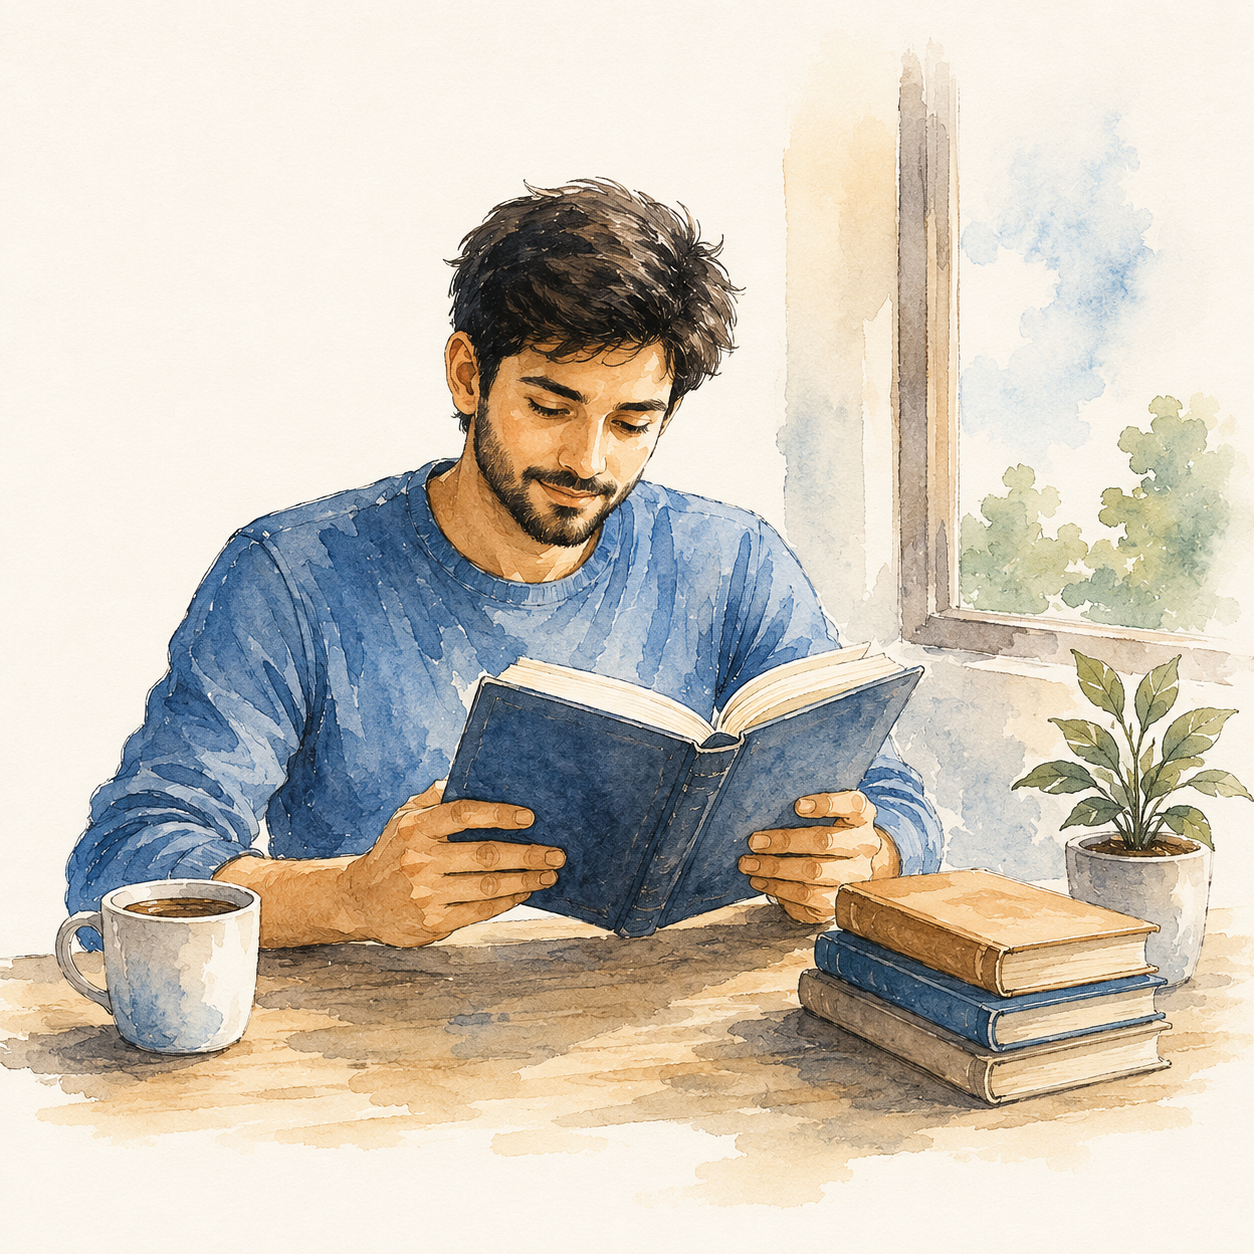
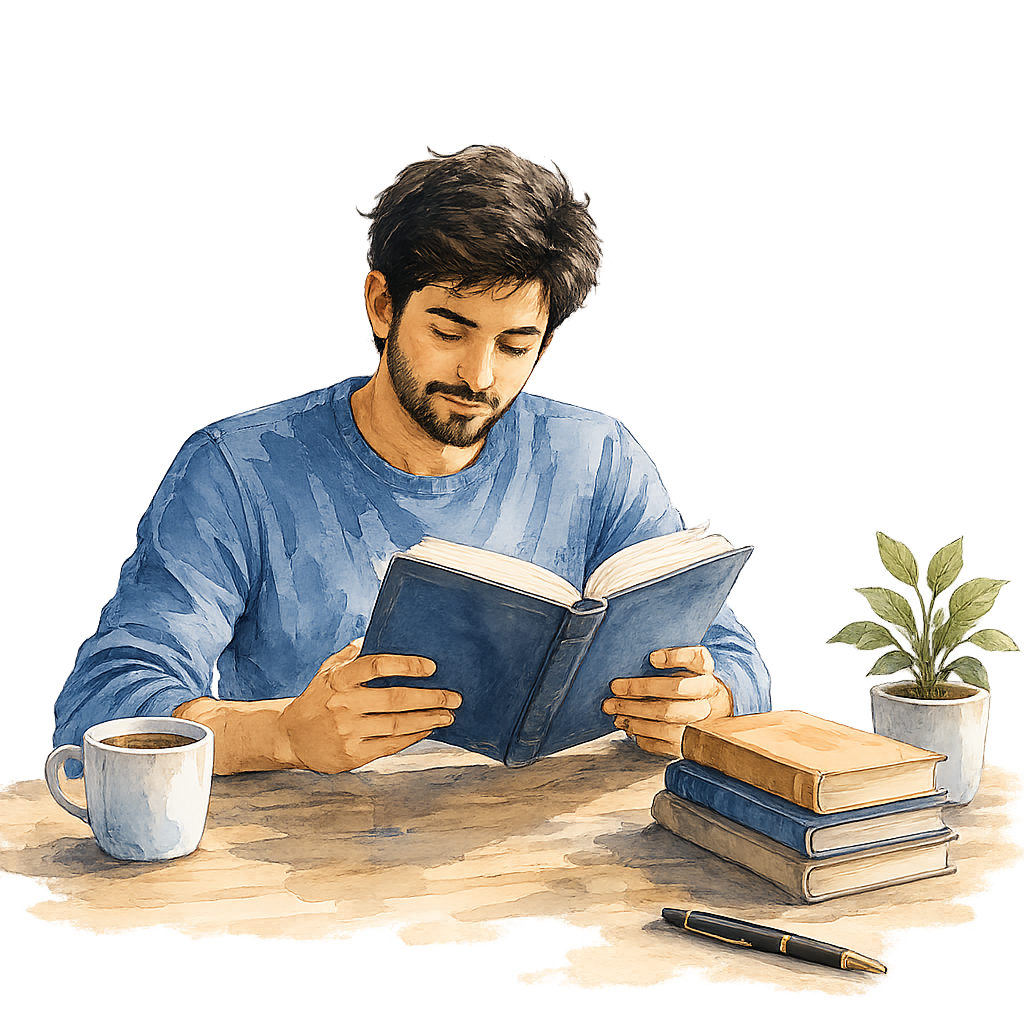
Updated bottom form illustration

diff --git a/book-publishing-services.html b/book-publishing-services.html
@@ -1212,7 +1212,7 @@ document.addEventListener("DOMContentLoaded", function () {
 				<h2 class="heading1 pb-3 editing-process-heading" data-aos="zoom-out-down" data-aos-duration="1000">Publish Your Book With Confidence</h2>
 				<p class="paragraph-2 pb-5 mb-5 editing-process-intro" data-aos="zoom-out-up" data-aos-duration="1000">These publishing plans are built for authors who want the right level of setup, production, and launch support without losing control of their book.</p>
 				<h2 class="heading1 pb-3" data-aos="zoom-out-down" data-aos-duration="1000">Choose The Pricing Plan
-					That'S Right For You</h2>
+					That's Right For You</h2>
 				<p class="paragraph-2 pb-5 mb-5 mb-5" data-aos="zoom-out-up" data-aos-duration="1000">We offer
 					straightforward and simple pricing with no hidden charges!</p>
 			</div>
@@ -1645,7 +1645,7 @@ document.addEventListener("DOMContentLoaded", function () {
 
 
 			<div class="col-lg-6 col-sm-12" data-aos="fade-right" data-aos-offset="300" data-aos-easing="ease-in-sine">
-				<h3 class="pb-4" style="color: #fff !important;">Let'S Get Your Book To Readers Worldwide</h3>
+				<h3 class="pb-4" style="color: #fff !important;">Let's Get Your Book To Readers Worldwide</h3>
 				<p style="color: #fff !important;">Ready to publish your book? Many authors have a story worth sharing but need the right support to move forward. Our publishing services provide expert guidance and confidence throughout the entire process. We work closely with you to create a book that connects with readers and builds lasting visibility. From manuscript preparation and professional editing to cover design, distribution, and marketing, we ensure your book stands out. Our team helps authors publish successfully and expand their reach with professionalism and ease.
 				</p>
 				<!-- <p class="pb-4">Together we can help you make your book known to the world, get headlines and be noticed
@@ -1873,7 +1873,7 @@ document.addEventListener("DOMContentLoaded", function () {
 		<div class="row contact-info-row">
 			<div class="col-md-6 pr-6">
 				<figure>
-					<img src="assets/img/pitch.webp" class="img-fluid" alt="Pitch Your Book Idea"
+					<img src="assets/img/pitch.png" class="img-fluid" alt="Pitch Your Book Idea"
 						title="Pitch Your Book Idea">
 				</figure>
 			</div>

diff --git a/about-us-new.html b/about-us-new.html
@@ -300,7 +300,7 @@
         <div class="row contact-info-row">
           <div class="col-md-6 pr-6">
             <figure>
-              <img src="assets/img/pitch.webp" class="img-fluid" alt="Pitch your book idea" title="Pitch your book idea">
+              <img src="assets/img/pitch.png" class="img-fluid" alt="Pitch your book idea" title="Pitch your book idea">
             </figure>
           </div>
           <div class="col-md-6">

diff --git a/audiobook-service.html b/audiobook-service.html
@@ -1731,7 +1731,7 @@ document.addEventListener("DOMContentLoaded", function () {
 		<div class="row contact-info-row">
 			<div class="col-md-6 pr-6">
 				<figure>
-					<img src="assets/img/pitch.webp" class="img-fluid" alt="Pitch Your Book Idea"
+					<img src="assets/img/pitch.png" class="img-fluid" alt="Pitch Your Book Idea"
 						title="Pitch Your Book Idea">
 				</figure>
 			</div>

diff --git a/author-website-design.html b/author-website-design.html
@@ -1937,7 +1937,7 @@ document.addEventListener("DOMContentLoaded", function () {
 		<div class="row contact-info-row">
 			<div class="col-md-6 pr-6">
 				<figure>
-					<img src="assets/img/pitch.webp" class="img-fluid" alt="Pitch Your Book Idea"
+					<img src="assets/img/pitch.png" class="img-fluid" alt="Pitch Your Book Idea"
 						title="Pitch Your Book Idea">
 				</figure>
 			</div>

diff --git a/book-cover-design.html b/book-cover-design.html
@@ -1936,7 +1936,7 @@ document.addEventListener("DOMContentLoaded", function () {
 		<div class="row contact-info-row">
 			<div class="col-md-6 pr-6">
 				<figure>
-					<img src="assets/img/pitch.webp" class="img-fluid" alt="Pitch Your Book Idea"
+					<img src="assets/img/pitch.png" class="img-fluid" alt="Pitch Your Book Idea"
 						title="Pitch Your Book Idea">
 				</figure>
 			</div>

diff --git a/book-editing-services.html b/book-editing-services.html
@@ -1978,7 +1978,7 @@ If (Document.ReadyState === 'Loading') {
 		<div class="row contact-info-row">
 			<div class="col-md-6 pr-6">
 				<figure>
-					<img src="assets/img/pitch.webp" class="img-fluid" alt="Pitch Your Book Idea"
+					<img src="assets/img/pitch.png" class="img-fluid" alt="Pitch Your Book Idea"
 						title="Pitch Your Book Idea">
 				</figure>
 			</div>

diff --git a/book-illustration-services.html b/book-illustration-services.html
@@ -1785,7 +1785,7 @@ document.addEventListener("DOMContentLoaded", function () {
 		<div class="row contact-info-row">
 			<div class="col-md-6 pr-6">
 				<figure>
-					<img src="assets/img/pitch.webp" class="img-fluid" alt="Pitch Your Book Idea"
+					<img src="assets/img/pitch.png" class="img-fluid" alt="Pitch Your Book Idea"
 						title="Pitch Your Book Idea">
 				</figure>
 			</div>

diff --git a/book-marketing-services.html b/book-marketing-services.html
@@ -2188,7 +2188,7 @@ document.addEventListener("DOMContentLoaded", function () {
 		<div class="row contact-info-row">
 			<div class="col-md-6 pr-6">
 				<figure>
-					<img src="assets/img/pitch.webp" class="img-fluid" alt="Pitch Your Book Idea"
+					<img src="assets/img/pitch.png" class="img-fluid" alt="Pitch Your Book Idea"
 						title="Pitch Your Book Idea">
 				</figure>
 			</div>

diff --git a/ghostwriting-services.html b/ghostwriting-services.html
@@ -1830,7 +1830,7 @@ document.addEventListener("DOMContentLoaded", function () {
 		<div class="row contact-info-row">
 			<div class="col-md-6 pr-6">
 				<figure>
-					<img src="assets/img/pitch.webp" class="img-fluid" alt="Pitch Your Book Idea"
+					<img src="assets/img/pitch.png" class="img-fluid" alt="Pitch Your Book Idea"
 						title="Pitch Your Book Idea">
 				</figure>
 			</div>